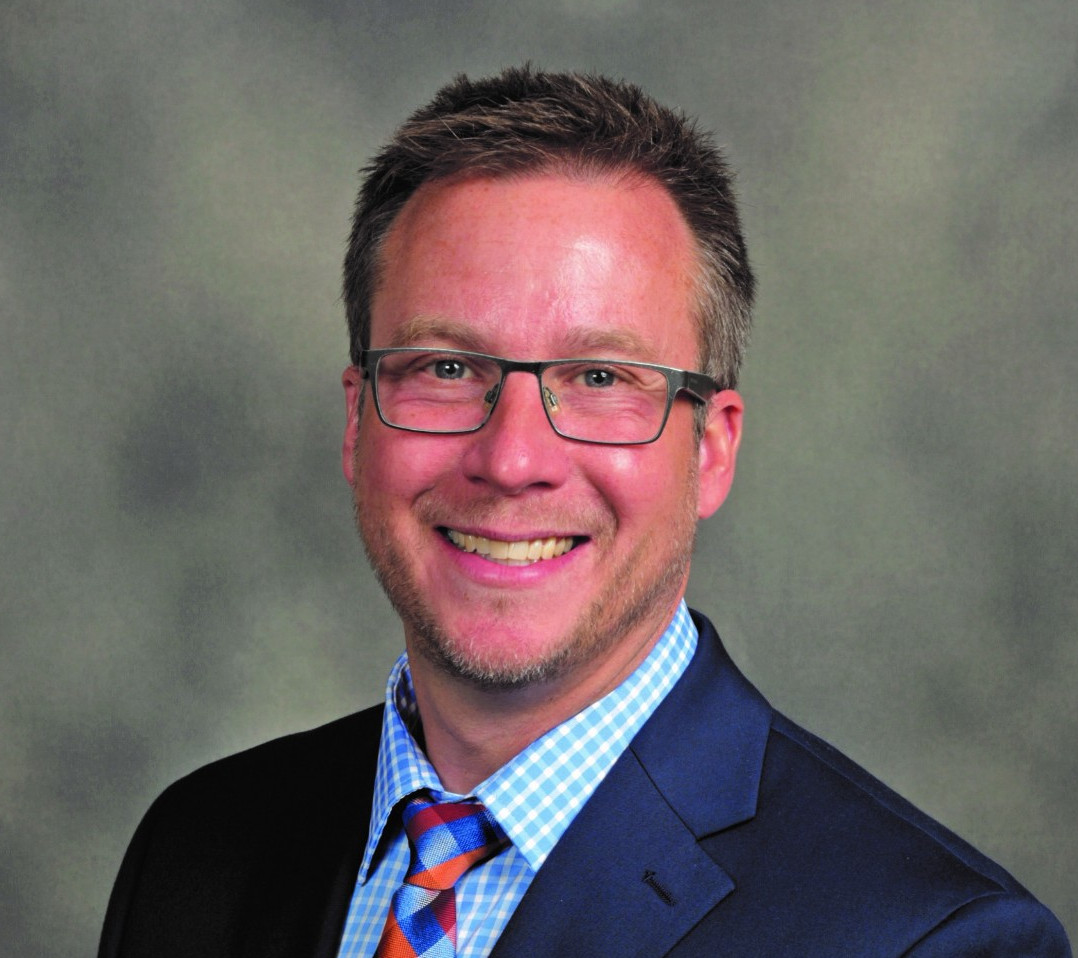
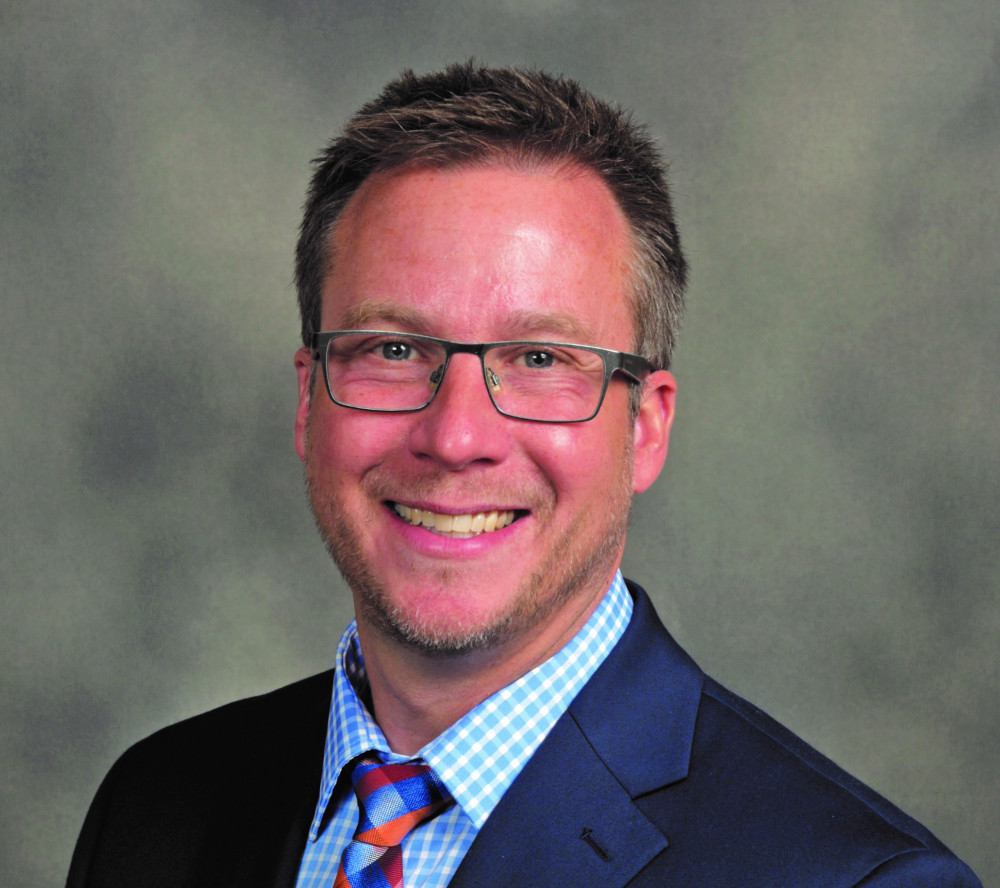
updated site

Changed region(s): [[0.217, 0.0608, 1.0, 1.0], [0.062, 0.8209, 0.155, 1.0], [0.155, 0.7905, 0.217, 0.8209]]

diff --git a/content/leader/virginia-holroyd.md b/content/leader/virginia-holroyd.md
@@ -1,11 +1,11 @@
 ---
-title: "Mark Slomski"
-description: "Youth Director"
-weight: 3
+title: "Virginia Holroyd"
+description: "Special Member Visitation Director"
+weight: 4
 draft: false
-image : "images/people/wade-allen.jpg"
+image : "images/people/virginia-holroyd.jpg"
 bg_image: "images/stained-blue.jpg"
-category: "Staff"
+category: [ "Staff", "Director" ]
 ---
 
 Lorem ipsum dolor sit amet, consectetur adipisicing elit, sed do eiusmod

diff --git a/content/leader/carolyn-russell.md b/content/leader/carolyn-russell.md
@@ -1,11 +1,11 @@
 ---
-title: "Wade Allen"
-description: "Pastor"
-weight: 1
+title: "Carolyn Russell"
+description: "Church Secretary and Financial Secretary"
+weight: 5
 draft: false
-image : "images/people/wade-allen.jpg"
+image : "images/people/carolyn-russell.jpg"
 bg_image: "images/stained-blue.jpg"
-category: [ "Staff", "Pastor" ]
+category: [ "Staff"]
 ---
 
 Lorem ipsum dolor sit amet, consectetur adipisicing elit, sed do eiusmod

diff --git a/content/leader/paul-johnson.md b/content/leader/paul-johnson.md
@@ -1,11 +1,11 @@
 ---
-title: "Wade Allen"
-description: "Pastor"
-weight: 1
+title: "Paul Johnson"
+description: "Adult Ministries Director"
+weight: 3
 draft: false
-image : "images/people/wade-allen.jpg"
+image : "images/people/paul-johnson.jpg"
 bg_image: "images/stained-blue.jpg"
-category: [ "Staff", "Pastor" ]
+category: [ "Staff", "Director" ]
 ---
 
 Lorem ipsum dolor sit amet, consectetur adipisicing elit, sed do eiusmod

diff --git a/content/leader/deb-marshall.md b/content/leader/deb-marshall.md
@@ -3,9 +3,9 @@ title: "Deb Marshall"
 description: "Family Ministries Director"
 weight: 2
 draft: false
-image : "images/people/wade-allen.jpg"
+image : "images/people/deb-marshall.jpg"
 bg_image: "images/stained-blue.jpg"
-category: "Staff"
+category: [ "Staff", "Director" ]
 ---
 
 Lorem ipsum dolor sit amet, consectetur adipisicing elit, sed do eiusmod
